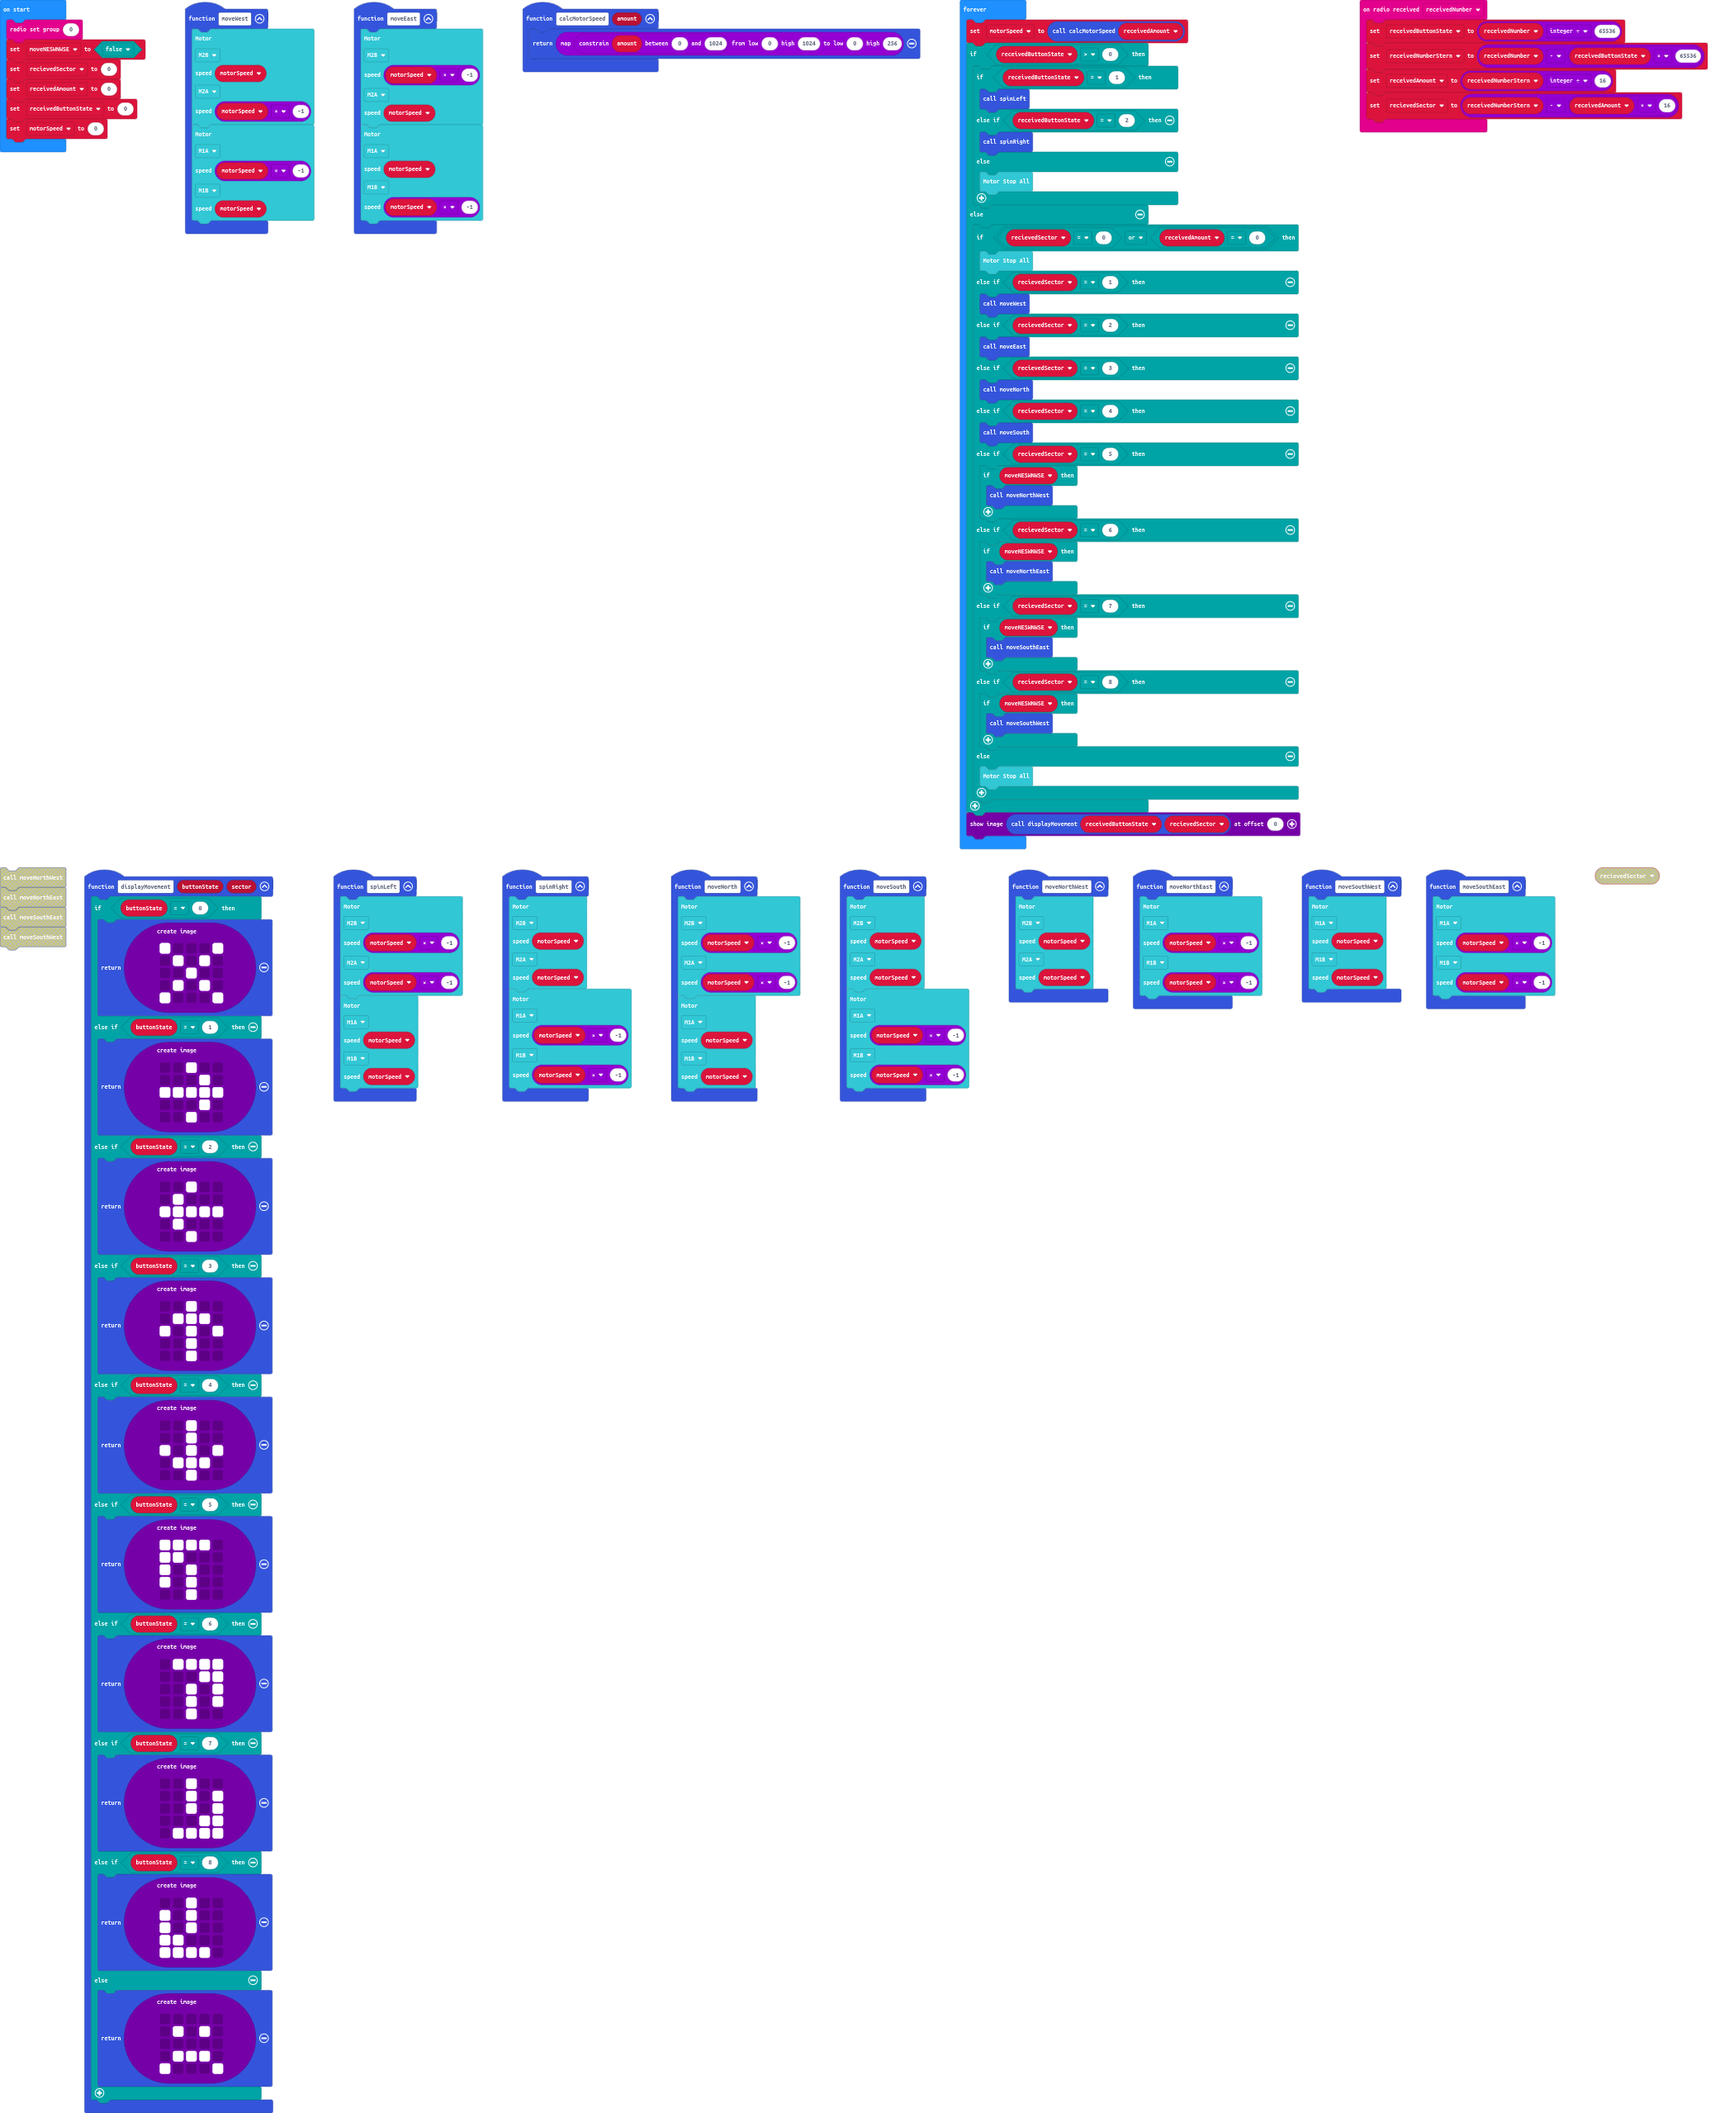
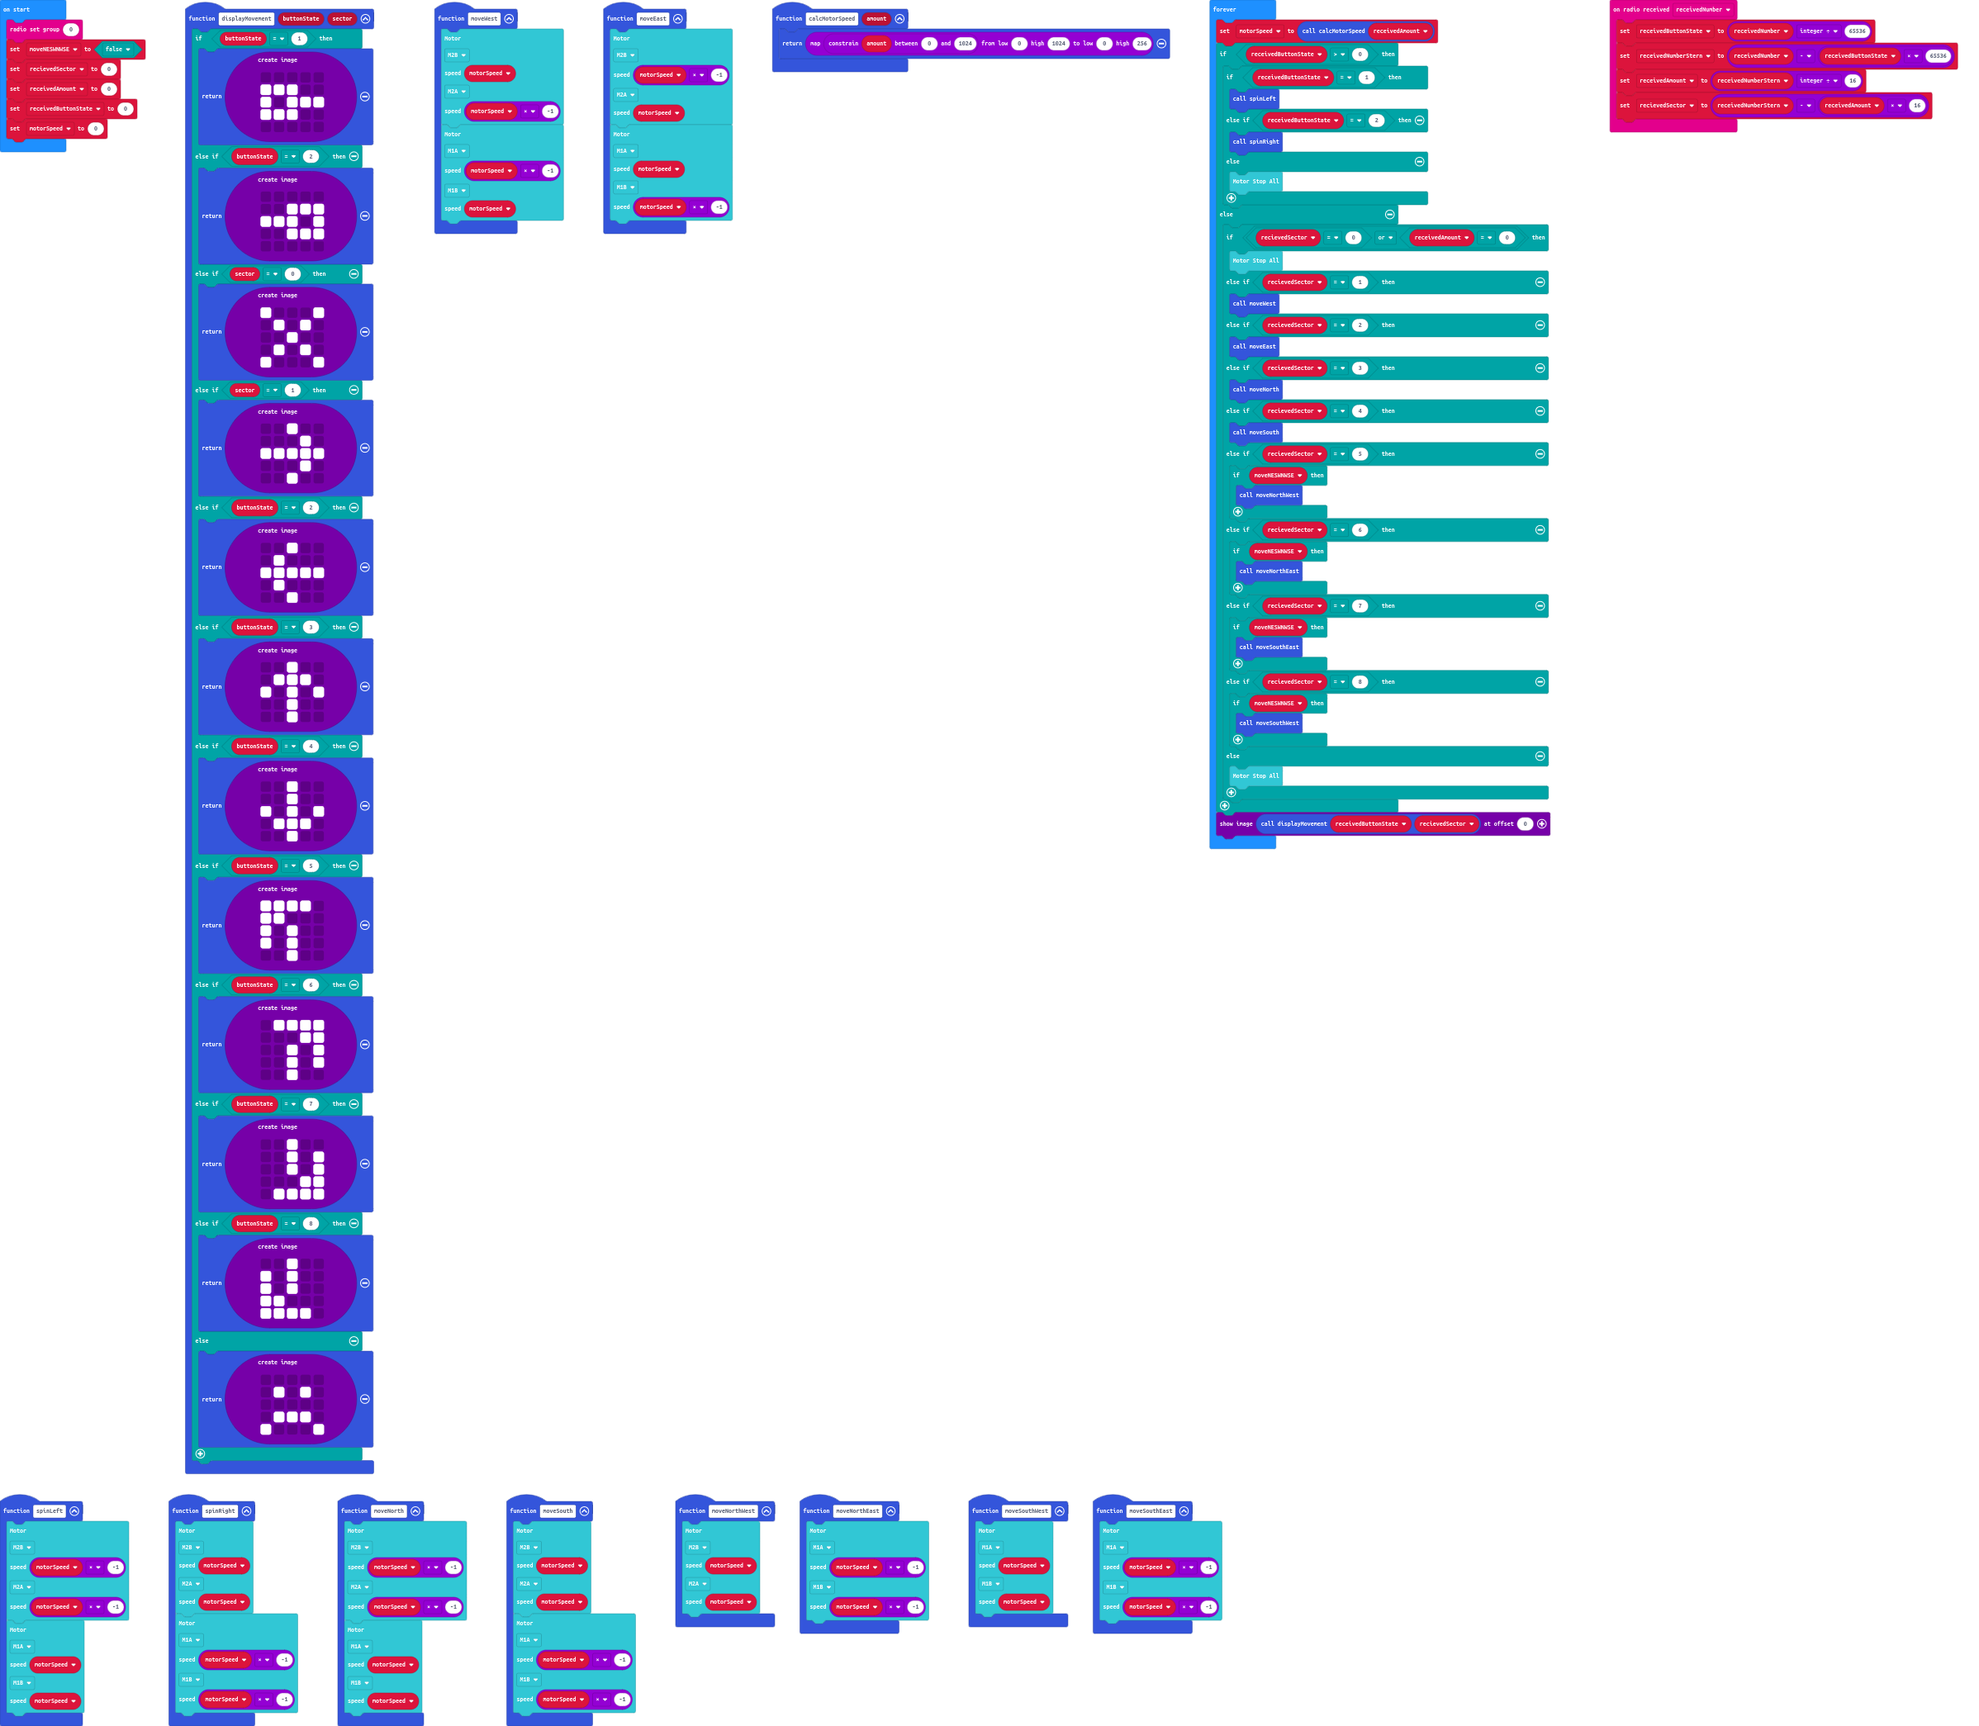
Fix displayMovement for buttonState

Changed region(s): [[0.0, 0.0, 0.9002, 1.0], [0.776, 0.0, 0.9933, 0.0933], [0.9312, 0.4043, 0.9623, 0.4354]]

diff --git a/main.ts b/main.ts
@@ -124,7 +124,23 @@ function moveSouthWest () {
     )
 }
 function displayMovement (buttonState: number, sector: number) {
-    if (buttonState == 0) {
+    if (buttonState == 1) {
+        return images.createImage(`
+            . . . . .
+            # # # . .
+            # . # # #
+            # # # . .
+            . . . . .
+            `)
+    } else if (buttonState == 2) {
+        return images.createImage(`
+            . . . . .
+            . . # # #
+            # # # . #
+            . . # # #
+            . . . . .
+            `)
+    } else if (sector == 0) {
         return images.createImage(`
             # . . . #
             . # . # .
@@ -132,7 +148,7 @@ function displayMovement (buttonState: number, sector: number) {
             . # . # .
             # . . . #
             `)
-    } else if (buttonState == 1) {
+    } else if (sector == 1) {
         return images.createImage(`
             . . # . .
             . . . # .
